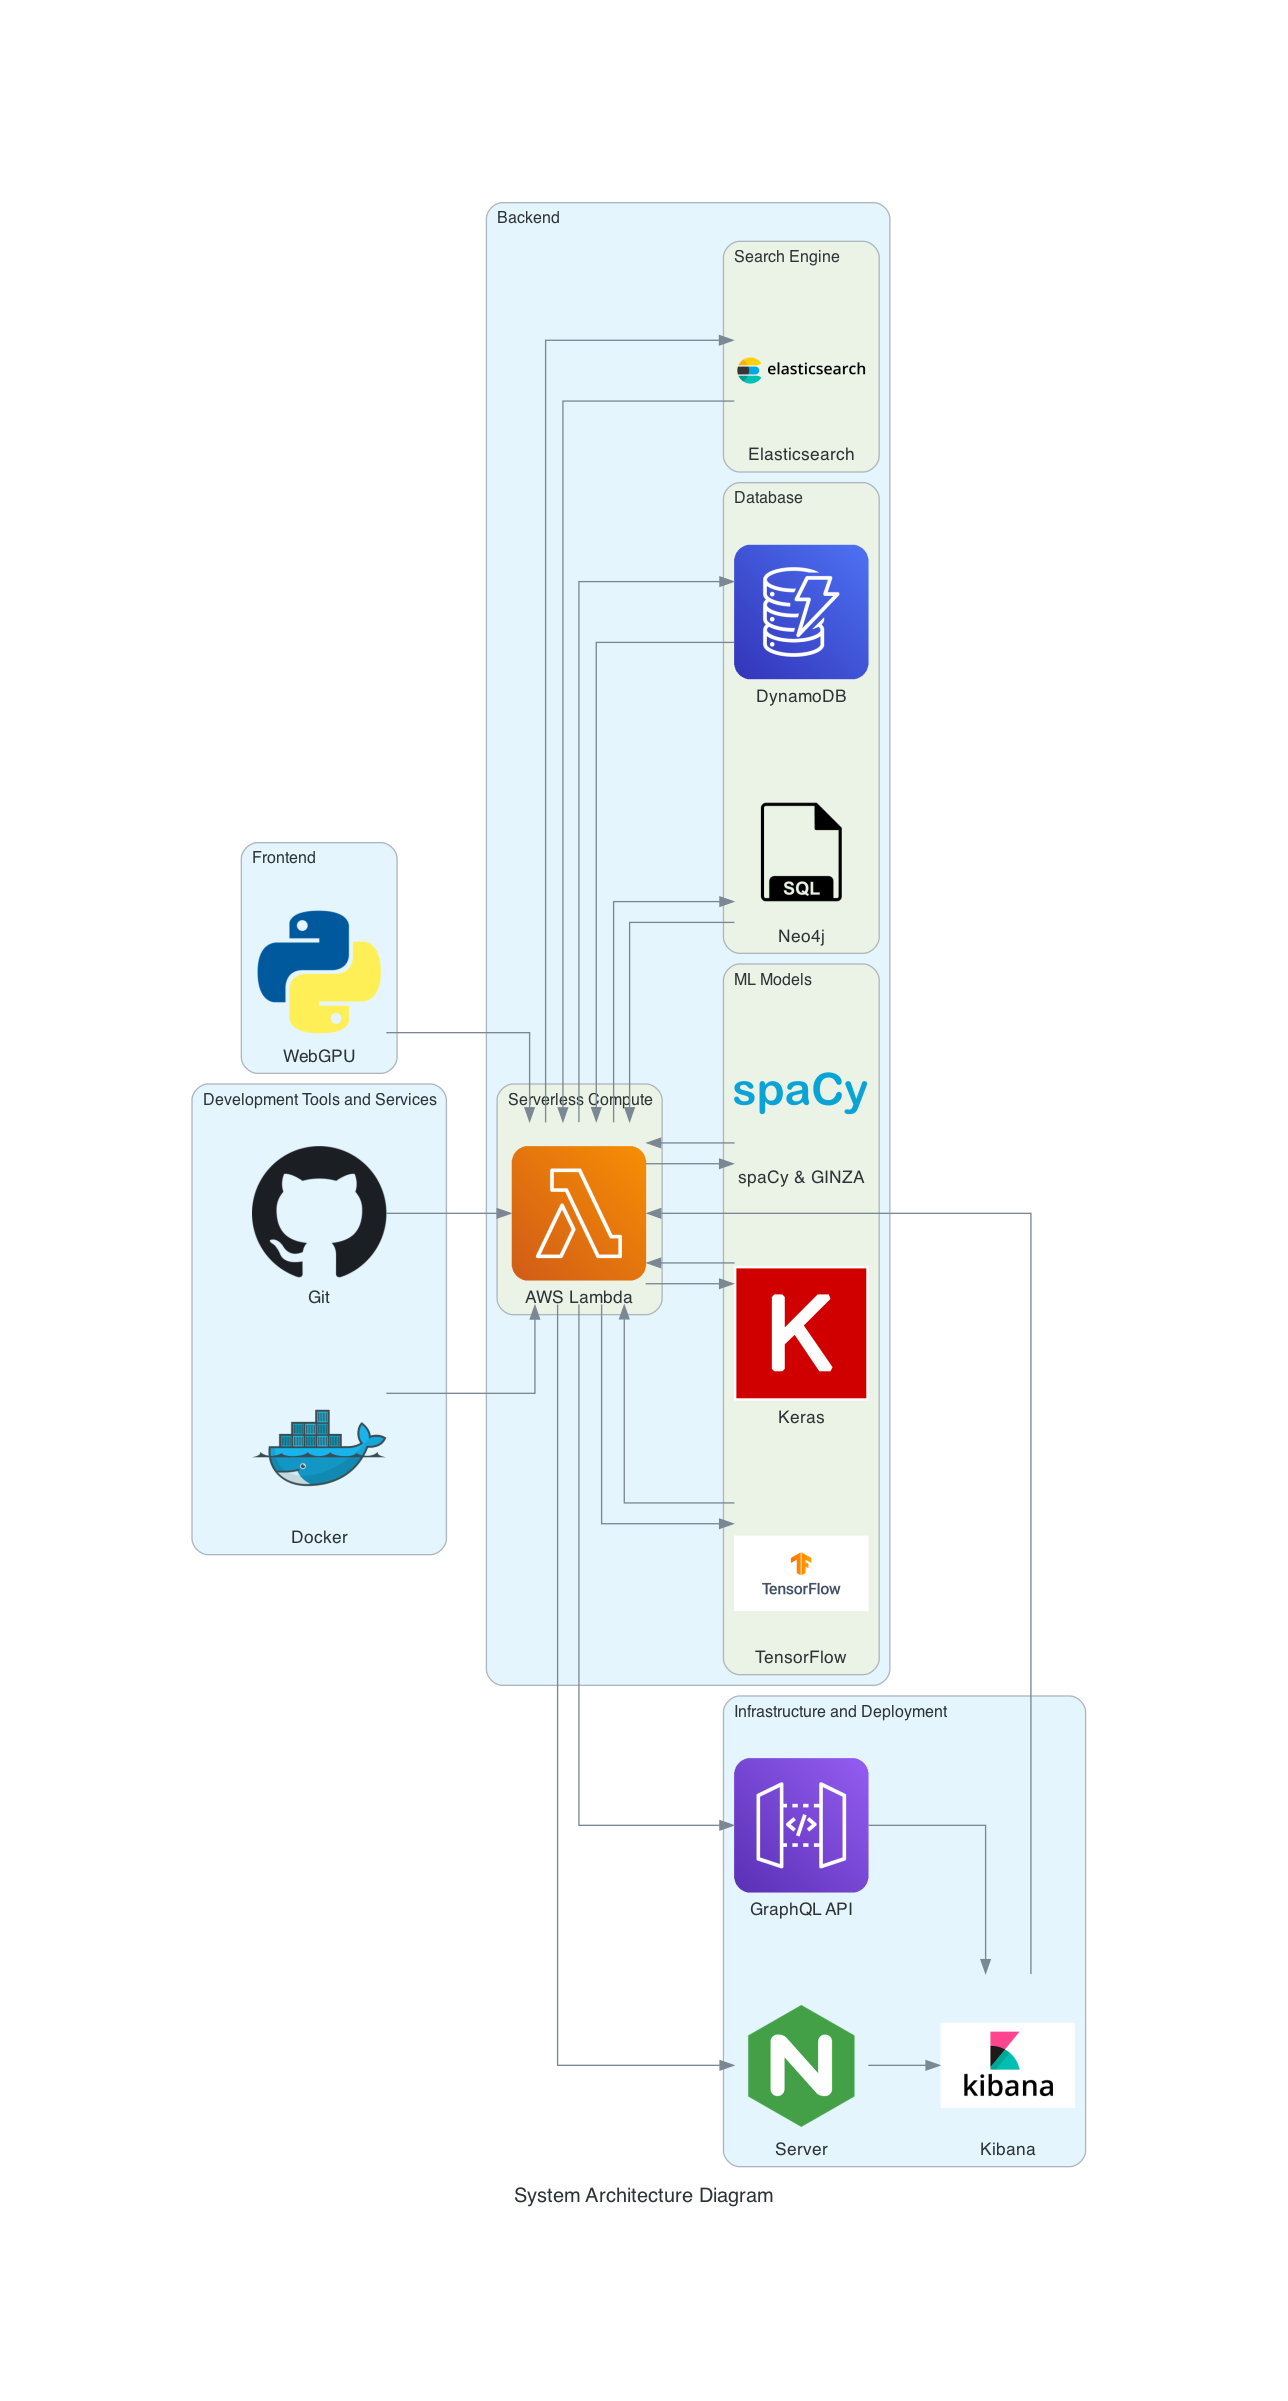
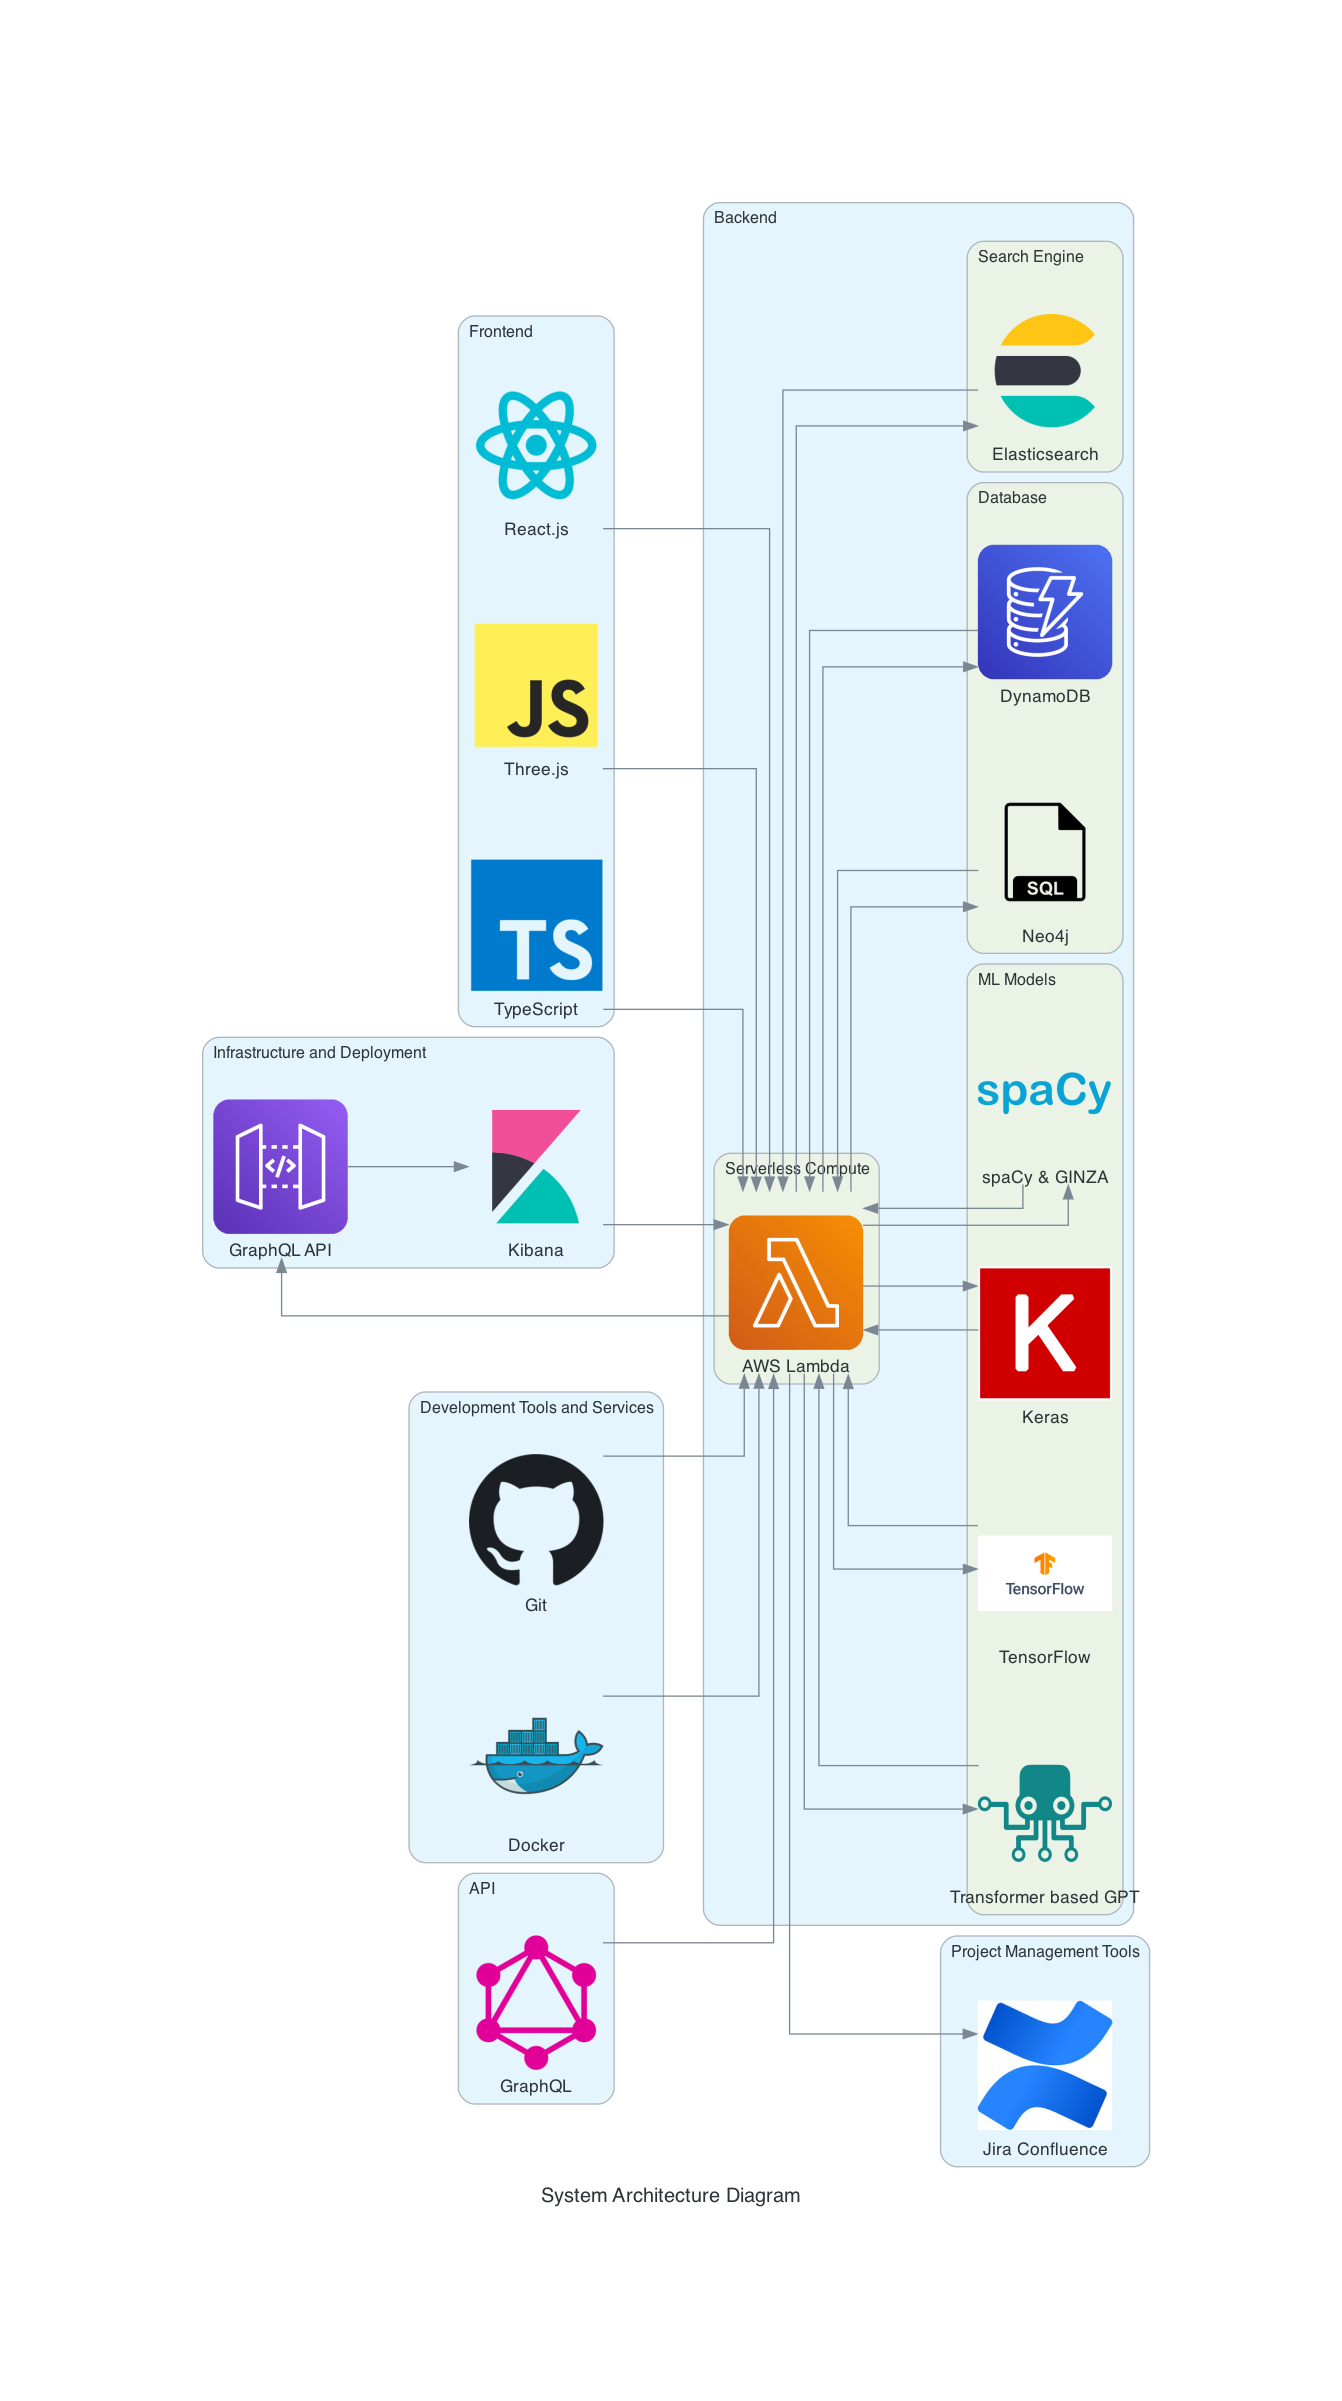
Fix system

Changed region(s): [[0.1242, 0.0625, 0.8696, 0.9371], [0.4037, 0.9059, 0.4969, 0.9371]]

diff --git a/chart.py b/chart.py
@@ -2,47 +2,50 @@ from diagrams import Cluster, Diagram
 from diagrams.aws.compute import Lambda
 from diagrams.aws.database import Dynamodb
 from diagrams.aws.network import APIGateway
-from diagrams.aws.ml import Rekognition
-from diagrams.onprem.iac import Terraform
 from diagrams.onprem.vcs import Github
 from diagrams.onprem.container import Docker
 from diagrams.generic.database import SQL
-from diagrams.programming.language import Python
-from diagrams.onprem.network import Nginx
-from diagrams.onprem.compute import Server
-from diagrams import Diagram, Cluster, Edge
-from diagrams.generic.blank import Blank
 from diagrams import Diagram, Cluster
 from diagrams.custom import Custom
-
+from diagrams.elastic.elasticsearch import Kibana
+from diagrams.elastic.elasticsearch import Elasticsearch
+from diagrams.programming.framework import React
+from diagrams.programming.language import Typescript
+from diagrams.programming.language import Javascript
+from diagrams.programming.framework import GraphQL
 
 with Diagram("System Architecture Diagram", show=False):
 
     with Cluster("Frontend"):
-        web_rendering = Python("WebGPU")
+        frontend = [React("React.js"), Javascript(
+            "Three.js"), Typescript("TypeScript")]
 
     with Cluster("Backend"):
         with Cluster("Serverless Compute"):
             compute = Lambda("AWS Lambda")
         with Cluster("ML Models"):
-            ml_models = [Custom("spaCy & GINZA", "./image_material2/SpaCy_logo.png"
-                                ), Custom(
-                "Keras",  "./image_material2/Keras_logo.png"), Custom("TensorFlow", "./image_material2/tensorflow.png")]
+            ml_models = [Custom("spaCy & GINZA", "image_material2/SpaCy_logo.png"), Custom(
+                "Keras", "image_material2/Keras_Logo.png"), Custom("TensorFlow", "image_material2/tensorflow.png"), Custom("Transformer based GPT", "image_material2/GPT_Logo.png")]
         with Cluster("Database"):
             db = Dynamodb("DynamoDB")
             graph_db = SQL("Neo4j")
         with Cluster("Search Engine"):
-            search = Custom("Elasticsearch",
-                            "./image_material2/Elasticsearch_logo.png")
+            search = Elasticsearch("Elasticsearch")
 
     with Cluster("Development Tools and Services"):
         dev_tools = [Github("Git"), Docker("Docker")]
 
     with Cluster("Infrastructure and Deployment"):
-        deployment = [APIGateway("GraphQL API"), Nginx("Server")]
-        monitoring = Custom("Kibana", "./image_material2/kibana.png")
+        deployment = [APIGateway("GraphQL API")]
+        monitoring = Kibana("Kibana")
 
-    web_rendering >> compute
+    with Cluster("API"):
+        api = GraphQL("GraphQL")
+
+    with Cluster("Project Management Tools"):
+        project_tools = Custom("Jira Confluence", "image_material2/jira.png")
+
+    frontend >> compute
     compute >> db
     compute >> graph_db
     compute >> ml_models
@@ -55,3 +58,5 @@ with Diagram("System Architecture Diagram", show=False):
     compute >> deployment
     deployment >> monitoring
     monitoring >> compute
+    api >> compute
+    compute >> project_tools
